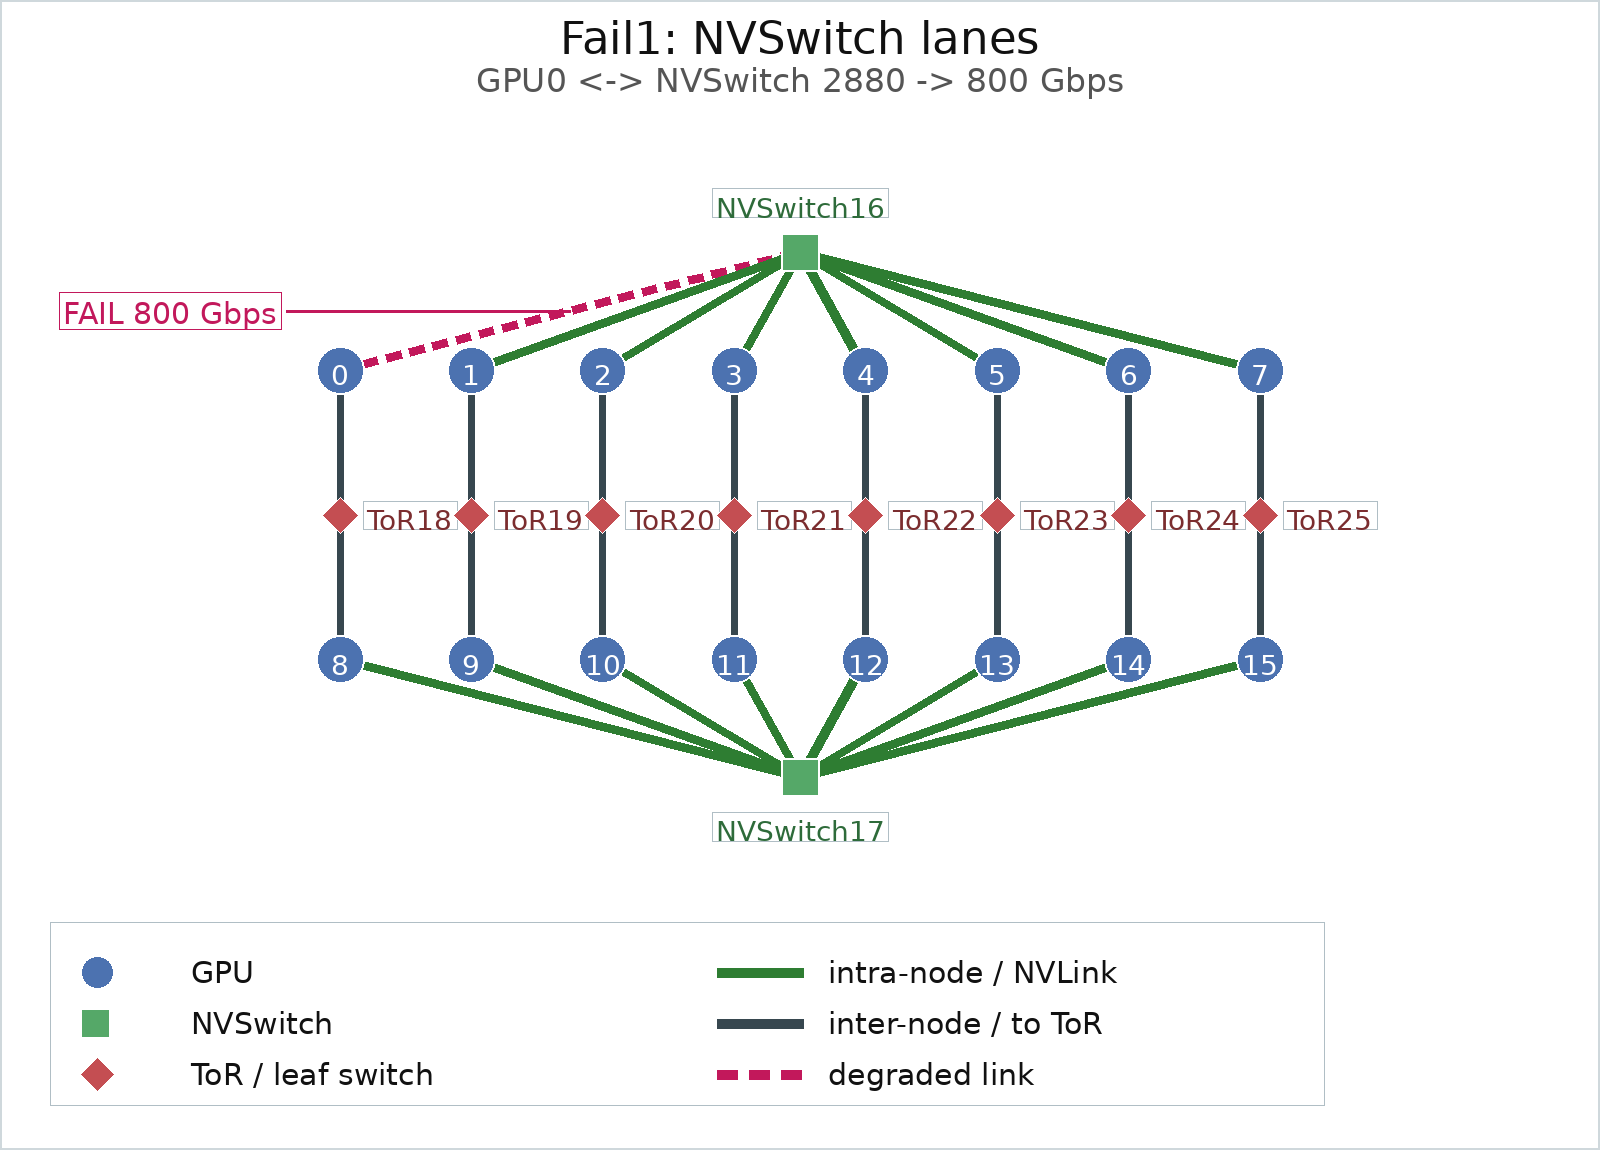
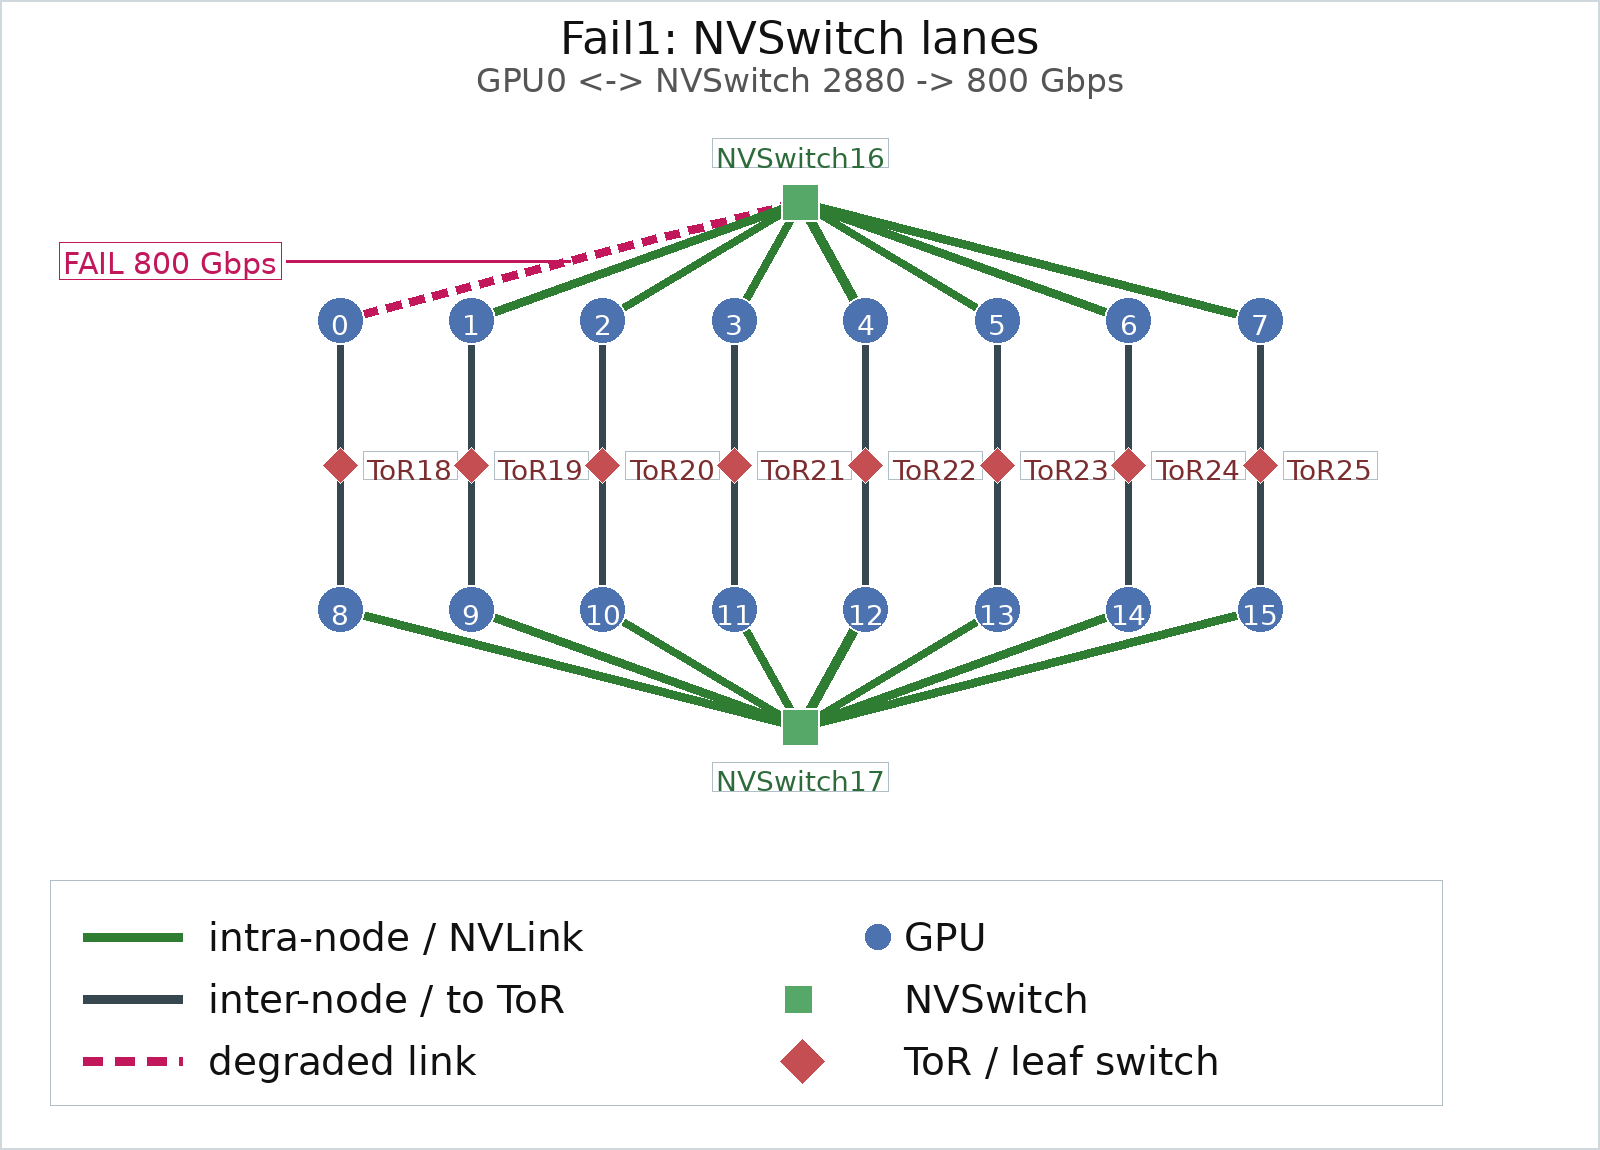
update plotting

diff --git a/artifact/draw_topologies.py b/artifact/draw_topologies.py
@@ -54,62 +54,31 @@ def topology_paths(family: str) -> List[Tuple[str, str, str, Path]]:
 
 def draw_legend(draw: ImageDraw.ImageDraw, x: float, y: float, font_scale: float,
                 two_network: bool = False) -> None:
-    small = vf._font(int(12 * font_scale))
-    rows = [
-        ("dot", "#4c72b0", "GPU"),
-        ("square", "#55a868", "NVSwitch"),
-        ("diamond", "#c44e52", "ToR / leaf switch"),
-        ("line", vf.COLOR_INTRA, "intra-node / NVLink"),
-    ]
+    # Same disposition as the animation legend: link rows first, then the
+    # node/marker rows, so the shared labels sit in the same place.
     if two_network:
-        rows += [
+        rows = [
+            ("line", vf.COLOR_INTRA, "intra-node / NVLink"),
+            ("line", vf.COLOR_INTER, "inter-node / to ToR"),
             ("hex", vf.COLOR_INTRA_NET, "intra-node network switch"),
             ("line", vf.COLOR_INTRA_NET, "dedicated intra-node fabric"),
             ("dash", vf.COLOR_FAIL, "inter-node network"),
+            ("dot", "#4c72b0", "GPU"),
+            ("square", "#55a868", "NVSwitch"),
+            ("diamond", "#c44e52", "ToR / leaf switch"),
         ]
+        per_col = 4
     else:
-        rows += [
+        rows = [
+            ("line", vf.COLOR_INTRA, "intra-node / NVLink"),
             ("line", vf.COLOR_INTER, "inter-node / to ToR"),
             ("dash", vf.COLOR_FAIL, "degraded link"),
+            ("dot", "#4c72b0", "GPU"),
+            ("square", "#55a868", "NVSwitch"),
+            ("diamond", "#c44e52", "ToR / leaf switch"),
         ]
-    per_col = 4 if two_network else 3
-    row_h = int(20 * font_scale)
-    col_w = int(250 * font_scale)
-    width = col_w * 2
-    height = row_h * per_col + int(12 * font_scale)
-    draw.rectangle([x, y, x + width, y + height], fill="#ffffff", outline="#b0bec5")
-    for i, (kind, color, label) in enumerate(rows):
-        col, row = divmod(i, per_col)
-        cx0 = x + col * col_w + int(12 * font_scale)
-        cy = y + int(10 * font_scale) + row * row_h + row_h // 2
-        sx0, sx1 = cx0, cx0 + int(34 * font_scale)
-        if kind == "line":
-            draw.line([(sx0, cy), (sx1, cy)], fill=vf._rgb(color), width=max(2, int(4 * font_scale)))
-        elif kind == "dash":
-            vf._draw_dashed(draw, (sx0, cy), (sx1, cy), vf._rgb(color),
-                            max(2, int(4 * font_scale)),
-                            dash=max(5, int(8 * font_scale)), gap=max(3, int(5 * font_scale)))
-        elif kind == "dot":
-            r = int(7 * font_scale)
-            draw.ellipse([sx0, cy - r, sx0 + 2 * r, cy + r], fill=vf._rgb(color),
-                         outline="white", width=2)
-        elif kind == "square":
-            r = int(6 * font_scale)
-            draw.rectangle([sx0, cy - r, sx0 + 2 * r, cy + r], fill=vf._rgb(color),
-                           outline="white", width=2)
-        elif kind == "diamond":
-            r = int(7 * font_scale)
-            mx = sx0 + r
-            draw.polygon([(mx, cy - r), (mx + r, cy), (mx, cy + r), (mx - r, cy)],
-                         fill=vf._rgb(color), outline="white")
-        elif kind == "hex":
-            r = int(9 * font_scale)
-            mx = sx0 + r
-            pts = [(mx + r, cy), (mx + r * 0.5, cy - r), (mx - r * 0.5, cy - r),
-                   (mx - r, cy), (mx - r * 0.5, cy + r), (mx + r * 0.5, cy + r)]
-            draw.polygon(pts, fill="#f3e5f5", outline=vf._rgb(color))
-        draw.text((sx1 + int(10 * font_scale), cy - int(7 * font_scale)), label,
-                  fill=vf._rgb(vf.COLOR_TEXT), font=small)
+        per_col = 3
+    vf._draw_legend_rows(draw, x, y, font_scale, rows, per_col)
 
 
 def render_panel(topo: vf.Topology, title: str, subtitle: str,
@@ -119,7 +88,7 @@ def render_panel(topo: vf.Topology, title: str, subtitle: str,
     img, _, _ = vf._render_base_panel(
         scenario, width, height, dpi,
         draw_legend=False, draw_progress=False, subtitle=subtitle,
-        top_pad=120, bottom_pad=240, margin=80, margin_x=340,
+        top_pad=120, bottom_pad=340, margin=80, margin_x=340,
         clamp_badges=True, switch_labels_outside=True,
         failure_labels_outside=True,
     )
@@ -132,10 +101,13 @@ def render_panel(topo: vf.Topology, title: str, subtitle: str,
         if link.bw_gbps < 0.5 * max_bw.get(vf._link_kind(topo, key), link.bw_gbps)
     }
     two_network = "nvlink" in degraded_kinds and "nic" in degraded_kinds
-    rows = 4 if two_network else 3
-    legend_h = int(20 * font_scale) * rows + int(12 * font_scale)
-    draw_legend(draw, 50, height - legend_h - int(30 * base_scale), font_scale,
-                two_network=two_network)
+    # The topology slide is viewed on its own, so give its legend the same
+    # disposition as the animations but a larger relative font.
+    legend_font_scale = font_scale * 1.3
+    per_col = 4 if two_network else 3
+    _, legend_h = vf._legend_size(legend_font_scale, per_col)
+    draw_legend(draw, 50, height - legend_h - int(30 * base_scale),
+                legend_font_scale, two_network=two_network)
     return img
 
 

diff --git a/artifact/visualize_flows.py b/artifact/visualize_flows.py
@@ -964,31 +964,18 @@ def _draw_dashed(draw, p1, p2, color, width: int, dash: int = 10, gap: int = 6) 
         d += dash + gap
 
 
-def _draw_legend(draw, x: float, y: float, font_scale: float,
-                 two_network: bool = False) -> None:
-    small = _font(int(12 * font_scale))
-    rows = [
-        ("line", COLOR_INTRA, "intra-node"),
-        ("line", COLOR_INTER, "inter-node"),
-    ]
-    if two_network:
-        rows += [
-            ("hex", COLOR_INTRA_NET, "intra-node network switch"),
-            ("line", COLOR_INTRA_NET, "dedicated intra-node fabric"),
-            ("dash", COLOR_FAIL, "inter-node network"),
-        ]
-    else:
-        rows += [("dash", COLOR_FAIL, "degraded")]
-    rows += [
-        ("line", "#fb8c00", "congested"),
-        ("cross", COLOR_BOTTLENECK, "bottleneck cut"),
-        ("dot", "#4c72b0", "packet (src GPU)"),
-    ]
-    per_col = 4 if two_network else 3
+def _legend_size(font_scale: float, per_col: int) -> Tuple[int, int]:
     row_h = int(19 * font_scale)
     col_w = int(210 * font_scale)
-    width = col_w * 2
-    height = row_h * per_col + int(12 * font_scale)
+    return col_w * 2, row_h * per_col + int(12 * font_scale)
+
+
+def _draw_legend_rows(draw, x: float, y: float, font_scale: float,
+                      rows: List[Tuple[str, str, str]], per_col: int):
+    small = _font(int(12 * font_scale))
+    row_h = int(19 * font_scale)
+    col_w = int(210 * font_scale)
+    width, height = _legend_size(font_scale, per_col)
     draw.rectangle([x, y, x + width, y + height], fill="#ffffff", outline="#b0bec5")
     for i, (kind, color, label) in enumerate(rows):
         col, row = divmod(i, per_col)
@@ -1009,6 +996,15 @@ def _draw_legend(draw, x: float, y: float, font_scale: float,
         elif kind == "dot":
             r = 4 * font_scale
             draw.ellipse([sx1 - r, cy - r, sx1 + r, cy + r], fill=_rgb(color), outline="white")
+        elif kind == "square":
+            r = int(6 * font_scale)
+            draw.rectangle([sx0, cy - r, sx0 + 2 * r, cy + r], fill=_rgb(color),
+                           outline="white", width=max(1, int(2 * font_scale)))
+        elif kind == "diamond":
+            r = int(7 * font_scale)
+            mx = sx0 + r
+            draw.polygon([(mx, cy - r), (mx + r, cy), (mx, cy + r), (mx - r, cy)],
+                         fill=_rgb(color), outline="white")
         elif kind == "hex":
             r = 6 * font_scale
             hx = (sx0 + sx1) / 2.0
@@ -1017,6 +1013,30 @@ def _draw_legend(draw, x: float, y: float, font_scale: float,
             draw.polygon(pts, fill="#f3e5f5", outline=_rgb(color))
         draw.text((sx1 + int(8 * font_scale), cy - int(7 * font_scale)), label,
                   fill=_rgb(COLOR_TEXT), font=small)
+    return width, height
+
+
+def _draw_legend(draw, x: float, y: float, font_scale: float,
+                 two_network: bool = False) -> None:
+    rows = [
+        ("line", COLOR_INTRA, "intra-node"),
+        ("line", COLOR_INTER, "inter-node"),
+    ]
+    if two_network:
+        rows += [
+            ("hex", COLOR_INTRA_NET, "intra-node network switch"),
+            ("line", COLOR_INTRA_NET, "dedicated intra-node fabric"),
+            ("dash", COLOR_FAIL, "inter-node network"),
+        ]
+    else:
+        rows += [("dash", COLOR_FAIL, "degraded")]
+    rows += [
+        ("line", "#fb8c00", "congested"),
+        ("cross", COLOR_BOTTLENECK, "bottleneck cut"),
+        ("dot", "#4c72b0", "packet (src GPU)"),
+    ]
+    per_col = 4 if two_network else 3
+    _draw_legend_rows(draw, x, y, font_scale, rows, per_col)
 
 
 def _text_badge(draw, cx: float, cy: float, text: str, font, fg: str,
@@ -1149,11 +1169,18 @@ def _render_base_panel(scenario: Scenario, width: int, height: int, dpi: int, *,
         draw.text((hx - (sw_bbox[2] - sw_bbox[0]) / 2,
                    hy - (sw_bbox[3] - sw_bbox[1]) / 2 - 1),
                   "SW", fill=_rgb(COLOR_INTRA_NET), font=sw_font)
-        small = _font(int(9 * font_scale))
-        node_text = "intra-node network (50 Gbps)"
-        nb = draw.textbbox((0, 0), node_text, font=small)
-        draw.text((hx - (nb[2] - nb[0]) / 2, hy - sr - (nb[3] - nb[1]) - 12),
-                  node_text, fill=_rgb(COLOR_INTRA_NET), font=small)
+        label_font = _font(int(11 * font_scale))
+        line1 = "intra-node network"
+        line2 = "50 Gbps"
+        b1 = draw.textbbox((0, 0), line1, font=label_font)
+        b2 = draw.textbbox((0, 0), line2, font=label_font)
+        w1 = b1[2] - b1[0]
+        w2 = b2[2] - b2[0]
+        line_h = int(14 * font_scale)
+        y2 = hy - sr - 12 - b2[3]
+        y1 = y2 - line_h
+        draw.text((hx - w1 / 2, y1), line1, fill=_rgb(COLOR_INTRA_NET), font=label_font)
+        draw.text((hx - w2 / 2, y2), line2, fill=_rgb(COLOR_INTRA_NET), font=label_font)
 
     for gid in topo.gpu_ids:
         x, y = to_px(*pos[gid])
